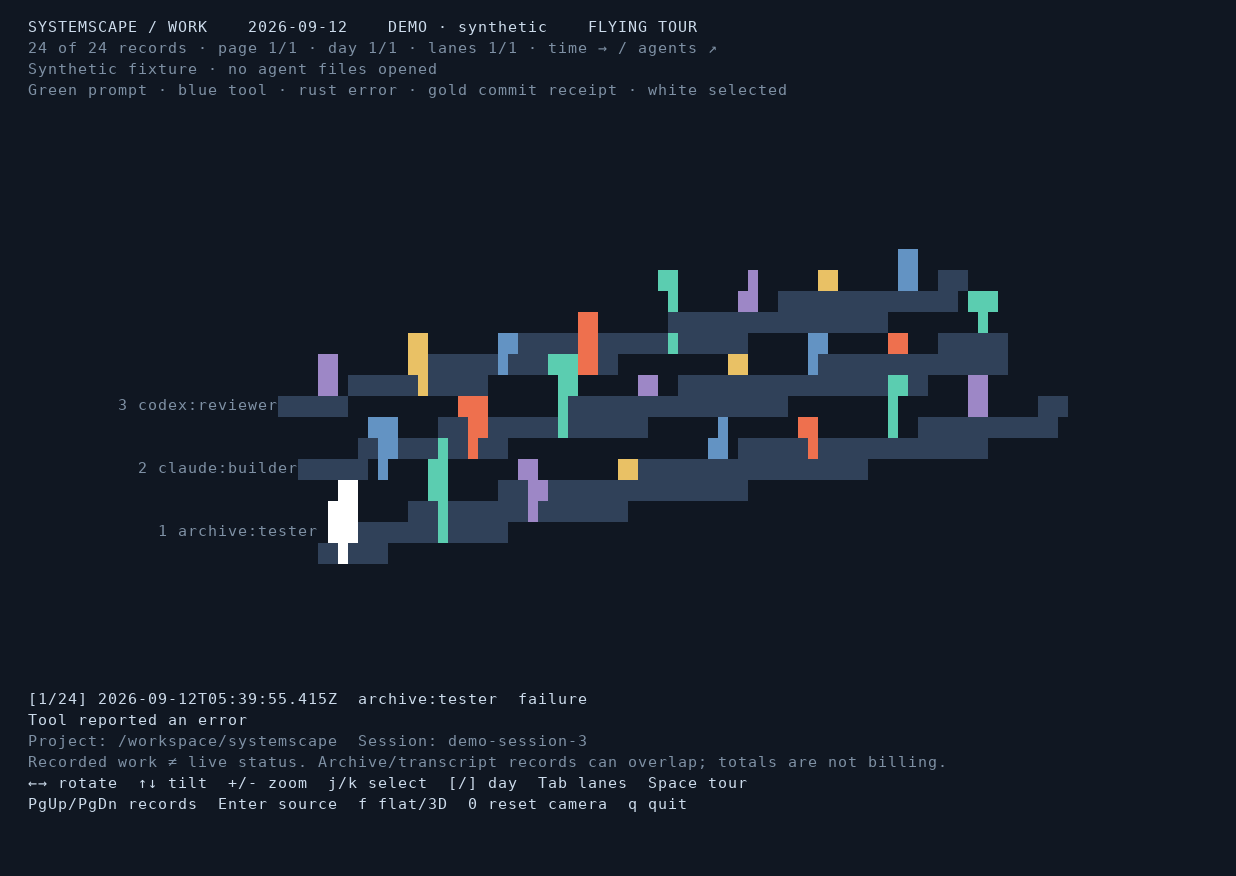
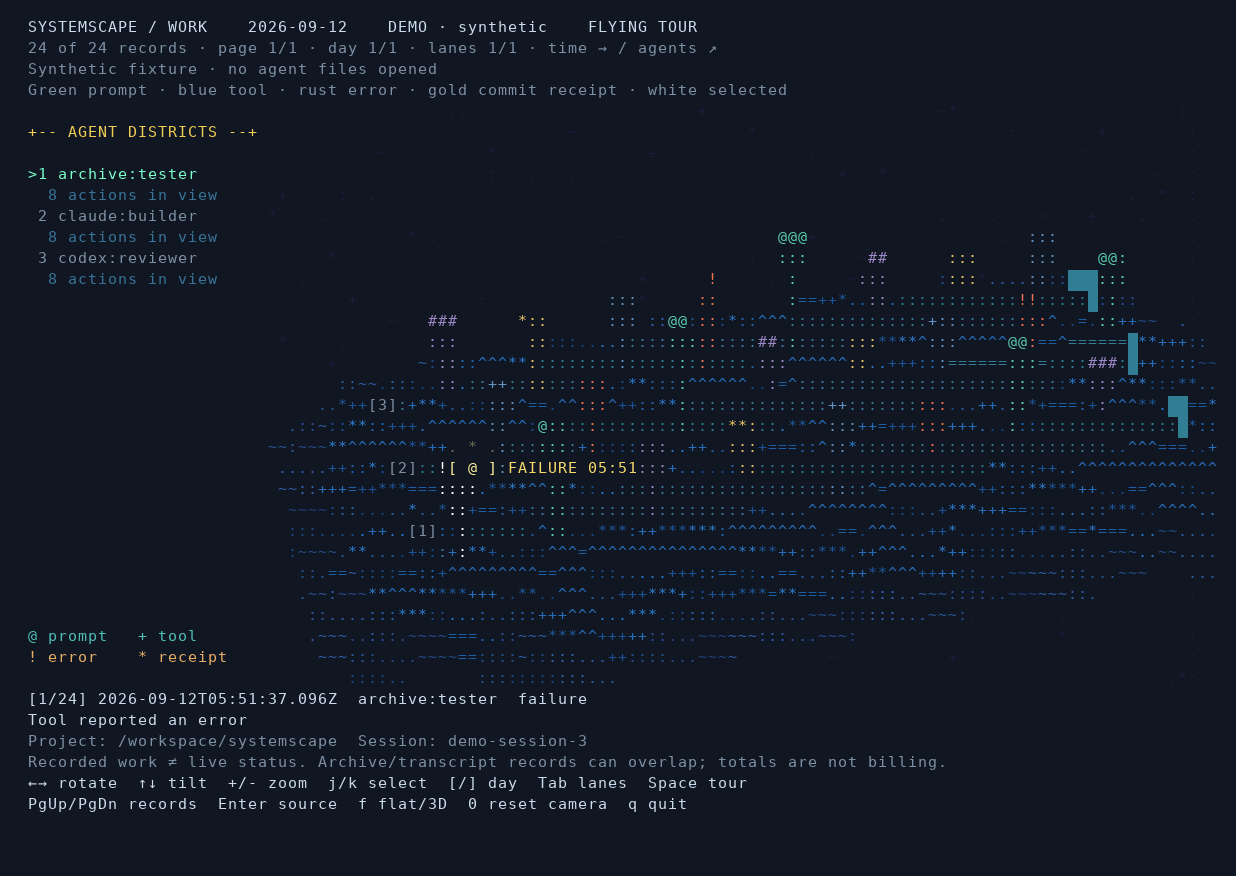
feat: texture the agent landscape as a touring ASCII island

diff --git a/src/activity.rs b/src/activity.rs
@@ -173,12 +173,87 @@ fn seconds(at: &str) -> f64 {
         .unwrap_or(0.0)
 }
 
-fn scene(data: &Slice<'_>, selected: usize) -> Mesh3D {
+/// Decorative terrain gives the time paths a shared spatial frame. Its relief
+/// is deterministic and does not pretend to encode throughput or task success.
+fn terrain(lanes: usize) -> Mesh3D {
     let mut mesh = Mesh3D::new(Vec::new(), Vec::new());
-    let rail = Colour::rgb(48, 65, 89);
+    let depth = (lanes as f64 * 1.5 + 2.0).max(5.5);
+    let (nx, nz) = (36usize, 24usize);
+    for j in 0..=nz {
+        for i in 0..=nx {
+            let x = -12.0 + 24.0 * i as f64 / nx as f64;
+            let z = -depth + 2.0 * depth * j as f64 / nz as f64;
+            let relief = (x * 0.52).sin() * (z * 0.73).cos() * 0.30;
+            let coast = (x / 12.0).powi(4) + (z / depth).powi(4);
+            let y = -0.85 + relief - coast * 0.55;
+            mesh.vertices.push(Vec3D::new(x, y, z));
+        }
+    }
+    for j in 0..nz {
+        for i in 0..nx {
+            let x = -12.0 + 24.0 * (i as f64 + 0.5) / nx as f64;
+            let z = -depth + 2.0 * depth * (j as f64 + 0.5) / nz as f64;
+            let radius = (x / 12.0).powi(4) + (z / depth).powi(4);
+            if radius > 1.0 + 0.12 * (x * 2.0 + z).sin() {
+                continue;
+            }
+            let noise = ((i * 17 + j * 31 + i * j * 7) % 11) as u8;
+            let coast = radius > 0.72;
+            let glyph = if coast {
+                ['~', ':', '.'][noise as usize % 3]
+            } else {
+                ['.', ':', '+', '*', '=', '.', ':', '+', '^', '.', '*'][noise as usize]
+            };
+            let colour = if coast {
+                Colour::rgb(31 + noise * 2, 69 + noise * 3, 128 + noise * 5)
+            } else {
+                Colour::rgb(22 + noise * 2, 72 + noise * 5, 135 + noise * 7)
+            };
+            let n = j * (nx + 1) + i;
+            mesh.faces.push(crate::Face::new(
+                vec![n + 1, n + nx + 2, n + nx + 1, n],
+                crate::ColChar::new(glyph, Modifier::Colour(colour)),
+            ));
+        }
+    }
+    mesh
+}
+
+fn texture(mesh: &mut Mesh3D, start: usize, glyph: char) {
+    for (index, face) in mesh.faces[start..].iter_mut().enumerate() {
+        face.fill_char.text_char = if index % 5 == 4 { glyph } else { ':' };
+    }
+}
+
+fn position(data: &Slice<'_>, index: usize) -> Vec3D {
+    let record = data.records[index];
+    let first = data.records.first().map_or(0.0, |e| seconds(&e.at));
+    let last = data.records.last().map_or(first, |e| seconds(&e.at));
+    let x = if last > first {
+        8.5 - 17.0 * (seconds(&record.at) - first) / (last - first)
+    } else {
+        0.0
+    };
+    let lane = data
+        .lanes
+        .iter()
+        .position(|a| a == &record.agent)
+        .unwrap_or(0);
+    Vec3D::new(
+        x,
+        if record.kind == "prompt" { 2.2 } else { 1.3 },
+        lane_z(lane, data.lanes.len()),
+    )
+}
+
+fn scene(data: &Slice<'_>, selected: usize) -> Mesh3D {
+    let mut mesh = terrain(data.lanes.len());
+    let rail = Colour::rgb(48, 125, 148);
     for (i, _) in data.lanes.iter().enumerate() {
         let z = lane_z(i, data.lanes.len());
+        let f = mesh.faces.len();
         push_bar(&mut mesh, 0.0, z, 9.0, 0.045, 0.06, rail);
+        texture(&mut mesh, f, '=');
         node(&mut mesh, Vec3D::new(-9.0, 0.0, z), 0.17, rail);
     }
     let first = data.records.first().map_or(0.0, |e| seconds(&e.at));
@@ -202,11 +277,7 @@ fn scene(data: &Slice<'_>, selected: usize) -> Mesh3D {
         } else {
             branch.1 += 1;
         }
-        let y = if e.kind == "prompt" {
-            1.5
-        } else {
-            0.4 + (branch.1 % 5) as f64 * 0.20
-        };
+        let y = if e.kind == "prompt" { 2.2 } else { 1.3 };
         let col = if i == selected {
             Colour::rgb(255, 255, 255)
         } else {
@@ -214,12 +285,26 @@ fn scene(data: &Slice<'_>, selected: usize) -> Mesh3D {
         };
         // Stem connects each record to its agent's time rail. Prompt stems are
         // taller; record height is a category, never an invented cost metric.
-        push_bar(&mut mesh, x, z, 0.022, 0.022, y, col);
+        let f = mesh.faces.len();
+        push_bar(&mut mesh, x, z, 0.035, 0.035, y, col);
+        texture(&mut mesh, f, '|');
+        let f = mesh.faces.len();
         node(
             &mut mesh,
             Vec3D::new(x, y, z),
-            if i == selected { 0.20 } else { 0.12 },
+            if i == selected { 0.28 } else { 0.18 },
             col,
+        );
+        texture(
+            &mut mesh,
+            f,
+            match e.kind.as_str() {
+                "prompt" => '@',
+                "failure" => '!',
+                "receipt" => '*',
+                "tool" => '+',
+                _ => '#',
+            },
         );
         if e.kind != "prompt" && x < branch.0 {
             let start = mesh.vertices.len();
@@ -235,6 +320,8 @@ fn scene(data: &Slice<'_>, selected: usize) -> Mesh3D {
             for v in &mut mesh.vertices[start..] {
                 v.y += 0.25;
             }
+            let f = mesh.faces.len().saturating_sub(5);
+            texture(&mut mesh, f, '-');
         }
     }
     mesh
@@ -291,6 +378,29 @@ fn render(
     let muted = Colour::rgb(126, 144, 164);
     let bright = Colour::rgb(204, 219, 235);
     let footer = dims.1.saturating_sub(7) as i64;
+    let sidebar = if dims.0 >= 110 && !state.flat && dims.1 >= 25 {
+        25i64
+    } else {
+        0
+    };
+    // A quiet glyph field supplies depth outside the island without resembling
+    // additional events. World terrain and event geometry are projected over it.
+    if !state.flat && dims.0 >= 80 && dims.1 >= 25 {
+        for y in 4..footer {
+            for x in 1..dims.0 as i64 - 1 {
+                let noise = (x * 73 + y * 151 + x * y * 7) % 97;
+                if noise < 8 {
+                    label(
+                        &mut view,
+                        x,
+                        y,
+                        &['.', ':', '~', '+', '.', ':', '*', '.'][noise as usize].to_string(),
+                        Colour::rgb(28, 27, 57),
+                    );
+                }
+            }
+        }
+    }
     if state.flat || dims.0 < 80 || dims.1 < 25 {
         let offset = state
             .selected
@@ -320,17 +430,50 @@ fn render(
     } else {
         let mut viewport = Viewport::new(
             Transform3D::look_at_lh(
-                state.focus + Vec3D::new(state.camera_x, 28.0 + state.pitch, state.zoom),
+                state.focus
+                    + Vec3D::new(
+                        state.camera_x,
+                        (28.0 + state.pitch) * if sidebar > 0 { 1.18 } else { 1.0 },
+                        state.zoom * if sidebar > 0 { 1.18 } else { 1.0 },
+                    ),
                 state.focus + Vec3D::new(0.0, 0.5, 0.0),
                 Vec3D::NEG_Y,
             ),
             60.0,
-            Vec2D::new(dims.0 as i64 / 2, (footer + 4) / 2),
+            Vec2D::new((dims.0 as i64 + sidebar) / 2, (footer + 4) / 2),
         );
         viewport.display_mode = DisplayMode::Solid;
         let rotation = Transform3D::from_rotation_y(state.yaw);
         viewport.objects = vec![scene(&data, state.selected).with_transform(rotation)];
         view.draw(&viewport);
+        if let Some(record) = data.records.get(state.selected) {
+            let p = project(
+                &viewport,
+                rotation,
+                position(&data, state.selected) + Vec3D::new(0.0, 0.7, 0.0),
+            );
+            if p.x > sidebar && p.y > 5 && p.y < footer - 1 {
+                label(
+                    &mut view,
+                    p.x - 2,
+                    p.y - 1,
+                    ". * .",
+                    Colour::rgb(97, 107, 83),
+                );
+                label(&mut view, p.x - 2, p.y, "[ @ ]", Colour::rgb(255, 242, 158));
+                label(
+                    &mut view,
+                    p.x + 4,
+                    p.y,
+                    &format!(
+                        "{} {}",
+                        record.kind.to_uppercase(),
+                        record.at.get(11..16).unwrap_or("")
+                    ),
+                    Colour::rgb(248, 218, 106),
+                );
+            }
+        }
         for (i, lane) in data.lanes.iter().enumerate() {
             let p = project(
                 &viewport,
@@ -338,7 +481,11 @@ fn render(
                 Vec3D::new(9.0, 0.2, lane_z(i, data.lanes.len())),
             );
             if p.x >= 0 && p.y > 3 && p.y < footer {
-                let name = format!("{} {}", i + 1, lane.chars().take(18).collect::<String>());
+                let name = if sidebar > 0 {
+                    format!("[{}]", i + 1)
+                } else {
+                    format!("{} {}", i + 1, lane.chars().take(18).collect::<String>())
+                };
                 label(
                     &mut view,
                     (p.x - name.chars().count() as i64 - 1).max(0),
@@ -348,6 +495,62 @@ fn render(
                 );
             }
         }
+    }
+    if sidebar > 0 {
+        for y in 4..footer {
+            label(&mut view, 0, y, &" ".repeat(sidebar as usize), muted);
+        }
+        label(
+            &mut view,
+            1,
+            5,
+            "+-- AGENT DISTRICTS --+",
+            Colour::rgb(240, 204, 82),
+        );
+        for (i, lane) in data.lanes.iter().enumerate() {
+            let y = 7 + i as i64 * 2;
+            if y + 1 >= footer - 3 {
+                break;
+            }
+            let active = data
+                .records
+                .get(state.selected)
+                .is_some_and(|e| &e.agent == lane);
+            let title = format!("{}{} {}", if active { ">" } else { " " }, i + 1, lane);
+            label(
+                &mut view,
+                1,
+                y,
+                &title.chars().take(23).collect::<String>(),
+                if active {
+                    Colour::rgb(123, 255, 203)
+                } else {
+                    muted
+                },
+            );
+            let count = data.records.iter().filter(|e| &e.agent == lane).count();
+            label(
+                &mut view,
+                3,
+                y + 1,
+                &format!("{count} actions in view"),
+                Colour::rgb(56, 115, 151),
+            );
+        }
+        label(
+            &mut view,
+            1,
+            footer - 3,
+            "@ prompt   + tool",
+            Colour::rgb(79, 190, 182),
+        );
+        label(
+            &mut view,
+            1,
+            footer - 2,
+            "! error    * receipt",
+            Colour::rgb(233, 173, 100),
+        );
     }
     label(
         &mut view,

diff --git a/README.md b/README.md
@@ -12,8 +12,9 @@ The repository was previously named `thermal3d`; the binary remains `systemscape
 These are captures of the running application in 120×40 tmux panes. Activity
 uses synthetic records; telemetry uses a synthetic history with live NOW readings.
 
-**Agent work in 3D** — time runs along the rails, agents occupy separate lanes,
-and the selected record appears in white with its details below.
+**Agent work in 3D** — a textured ASCII island holds time paths and agent
+districts. Coloured beacons mark recorded actions; the selected record has a
+bright callout and its details below.
 
 ![3D agent work landscape with three agent lanes and a selected record](docs/activity-3d.png)
 
@@ -42,7 +43,9 @@ subagents and Agentbox profiles. It also reads Agentbox's shared event archive,
 so any agent that emits there can appear, regardless of its harness. Agents
 without a readable transcript or archived event are not visible.
 
-The view groups records by UTC day, then lays agents out in depth. Prompt stems
+The view groups records by UTC day, then lays agents out in depth over a
+procedural island. Its glyph textures, coastline and relief provide a spatial
+frame; they do not encode work metrics. Prompt stems
 are taller than tool stems; height denotes record type, not cost or productivity.
 Green marks prompts, blue tools, rust errors and gold recorded commit receipts.
 The default flying tour sweeps the camera through the landscape and selects a

diff --git a/docs/ACTIVITY.md b/docs/ACTIVITY.md
@@ -48,9 +48,12 @@ cargo fmt --check
 cargo test --locked
 cargo clippy --locked --all-targets -- -D warnings
 cargo build --locked --release
+python3 scripts/terminal-smoke.py
 ```
 
 Regression tests cover partial appends, replay, rotations and rewrites, numeric
 archive identities, pending-file disclosure, invalid shapes, control filtering,
 subagent discovery, metadata preservation across a bounded tail, scene limits and
-small terminals. [Screenshot capture](SCREENSHOTS.md) exercises both live terminal modes.
+small terminals. The terminal smoke test exercises the continuous tour, manual
+pause/resume, source details, flat mode, resize and exit in an isolated tmux server.
+[Screenshot capture](SCREENSHOTS.md) exercises both live terminal modes.
